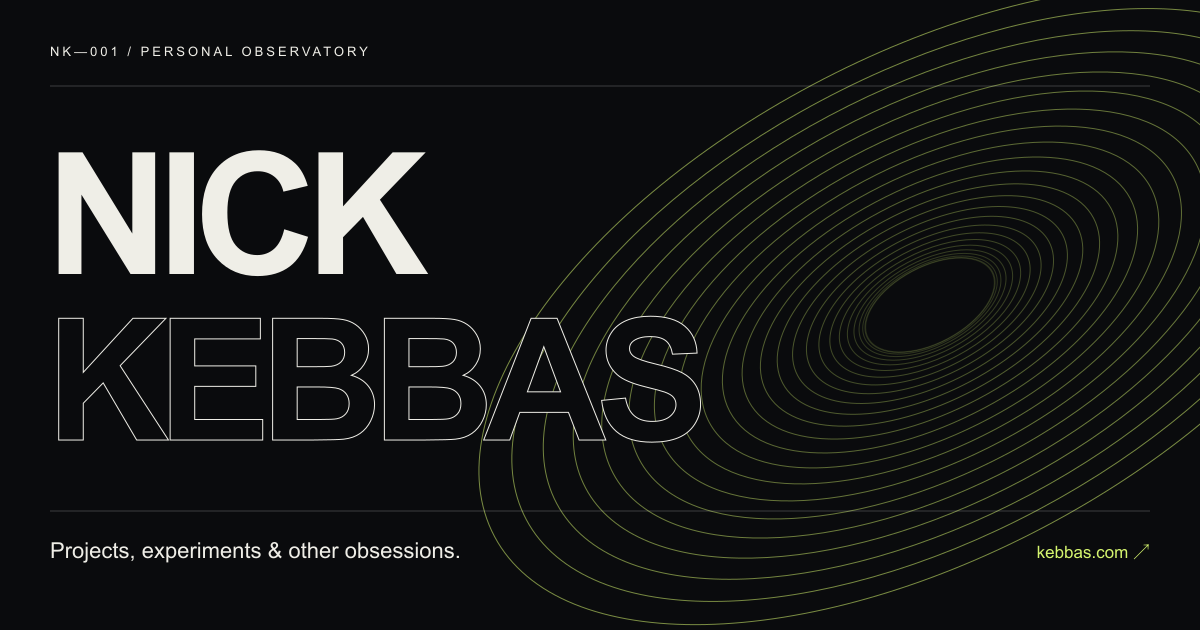
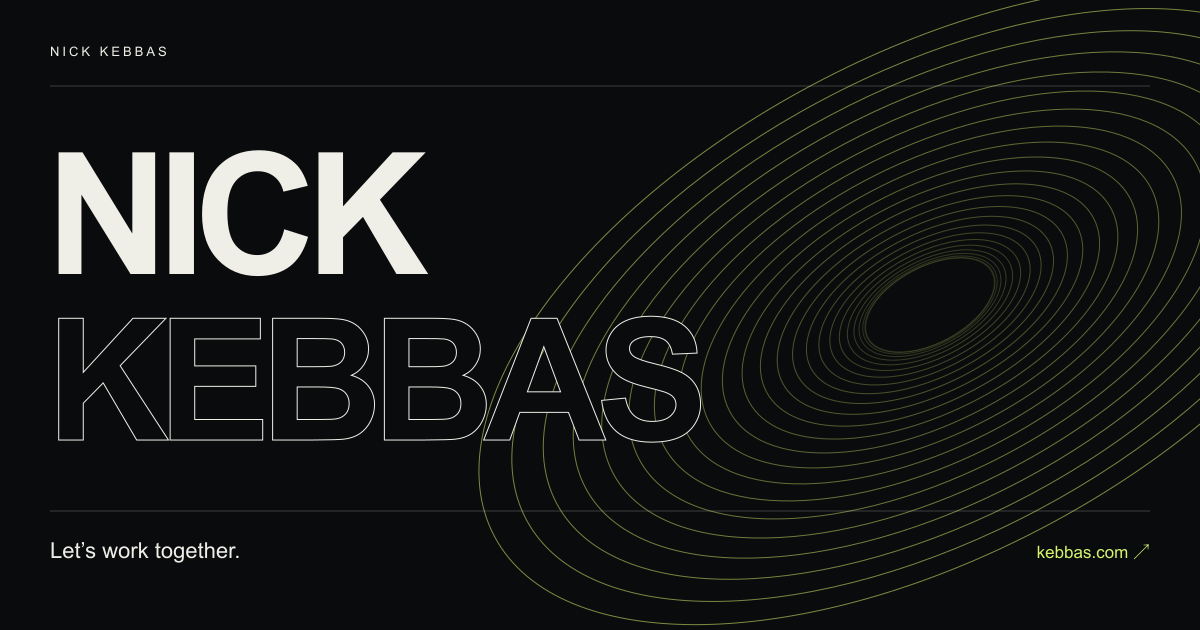
Simplify copy around working together

Changed region(s): [[0.0308, 0.8444, 0.37, 0.9048], [0.0617, 0.0603, 0.3083, 0.0905]]

diff --git a/src/styles/global.css b/src/styles/global.css
@@ -1553,3 +1553,53 @@ html[data-motion="full"] .interlude-track {
     padding-top: 23px;
   }
 }
+
+/* The artwork carries the page; copy stays short and practical. */
+.hero-cta {
+  display: inline-flex;
+  align-items: center;
+  gap: 24px;
+  margin-top: 42px;
+  padding: 10px 0;
+  border-bottom: 1px solid #efeee766;
+  font-size: clamp(20px, 2vw, 28px);
+  pointer-events: auto;
+}
+.hero-cta span {
+  color: var(--lime);
+}
+.hero-cta:hover {
+  color: var(--lime);
+  border-color: var(--lime);
+}
+.work .section-intro,
+.lab .lab-heading {
+  margin-top: 0;
+}
+.source-link > h3 {
+  margin: 0;
+}
+.about .specimen-scene::after {
+  background:
+    linear-gradient(0deg, #030403, transparent 12%),
+    linear-gradient(180deg, #030403, transparent 12%);
+}
+.connect-bottom {
+  justify-content: flex-end;
+}
+@media (max-width: 650px) {
+  .hero-cta {
+    margin-top: 26px;
+    gap: 16px;
+    font-size: 20px;
+  }
+  .source-link > h3 {
+    font-size: 24px;
+  }
+  .source-link .source-label {
+    margin-left: auto;
+  }
+  .source-symbol {
+    min-width: 55px;
+  }
+}

diff --git a/src/consts.ts b/src/consts.ts
@@ -1,3 +1,3 @@
-export const SITE_TITLE = "Nick Kebbas — A personal observatory.";
+export const SITE_TITLE = "Nick Kebbas";
 export const SITE_DESCRIPTION =
-  "Projects, experiments, and other obsessions. Explore Nick Kebbas’s personal observatory of software, AI, Bitcoin, and things taking shape.";
+  "Software projects by Nick Kebbas. Get in touch to work together.";

diff --git a/docs/observatory-design.md b/docs/observatory-design.md
@@ -98,3 +98,7 @@ The checks below are release criteria, not completed-test claims. Keep actual re
 - Code-side lifecycle simulation verified suspension for pause, hidden/offscreen state, reduced motion, and context loss. These are not a measured phone-GPU benchmark or an OS-level assistive-technology audit.
 - Static source/build check verified one h1, every internal anchor, local asset existence, and continued removal of the former blog.
 - Final production receipt and screenshots are retained in the task’s local release ledger after deployment.
+
+## Copy simplification — October 26, 2026
+
+Owner feedback: the copy sounded artificial. Removed the personal-observatory labels, slogans, biography paragraphs, and decorative narration. The homepage now leads with Nick’s name and “Let’s work together,” followed by the project, artwork, interactive controls, and a direct X contact link. The visuals and navigation effects remain. Metadata and the share image use the same plain language.
